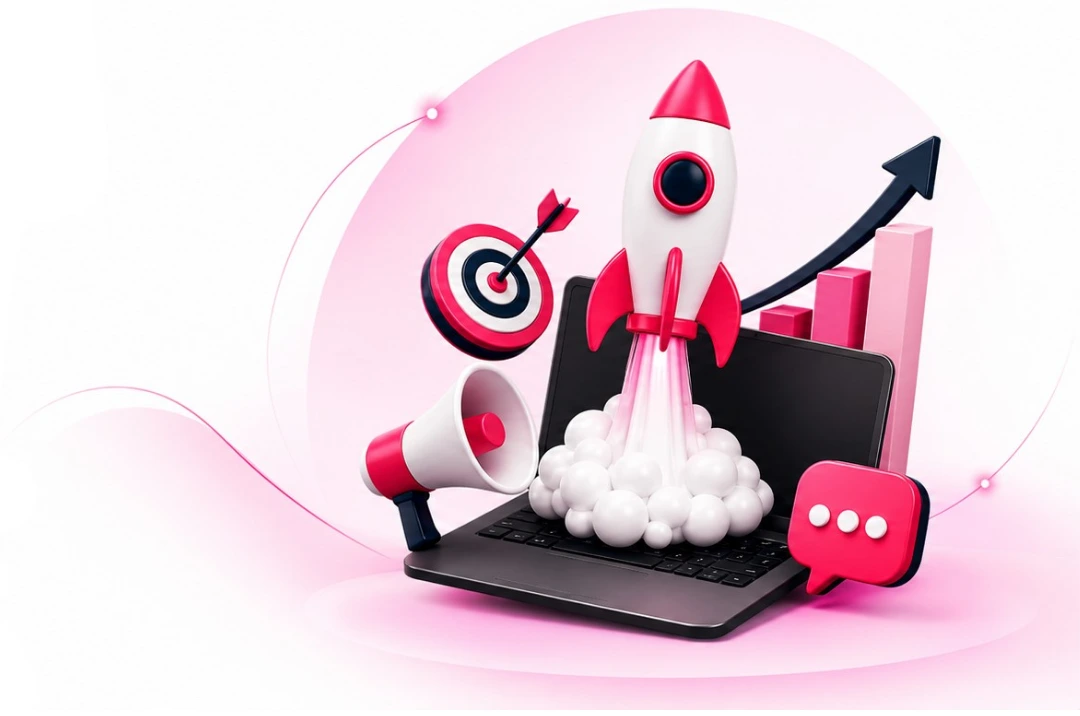
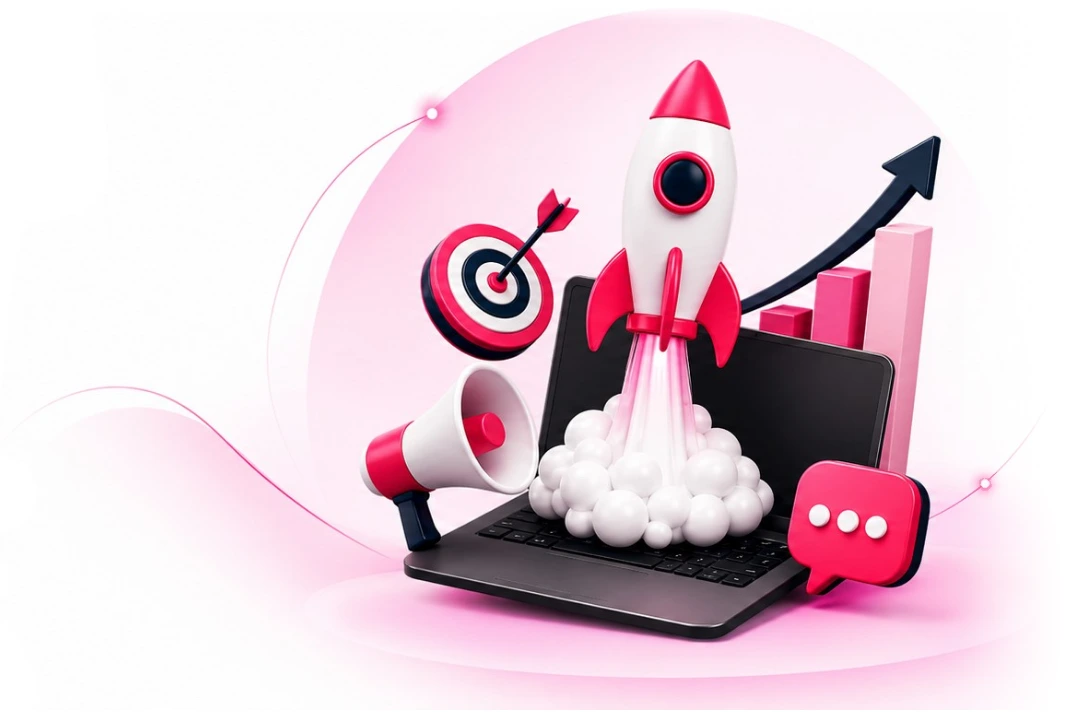
Hero: parrafo al ancho de Nosotros, titulo mas marcado y borde del icono difuminado

Changed region(s): [[0.9167, 0.7374, 1.0, 0.9218]]

diff --git a/styles.css b/styles.css
@@ -124,7 +124,8 @@ section[id]{scroll-margin-top:104px}
 /* ---------- HERO ---------- */
 .hero{padding:58px 0 32px}
 /* 48/52 entre texto e ilustración, con el texto centrado en vertical */
-.hero-grid{display:grid;grid-template-columns:48fr 52fr;gap:40px;align-items:center}
+/* La columna de texto mide lo mismo que la de Nosotros (602px a 1180 de contenedor) */
+.hero-grid{display:grid;grid-template-columns:602fr 490fr;gap:40px;align-items:center}
 .hero-copy{max-width:none}
 
 .hero-kicker,.section-kicker{
@@ -135,10 +136,14 @@ section[id]{scroll-margin-top:104px}
 .hero-title{
   margin-top:20px;font-family:var(--display);color:#0f1c2e;
   font-size:clamp(30px,4.1vw,54px);font-weight:700;letter-spacing:-.02em;line-height:1.07;
+  /* Mantiene el ancho que tenía, así los cortes de línea no cambian */
+  max-width:524px;
+  /* Space Grotesk llega hasta 700: el trazo engrosa un poco más sin cambiar el cuerpo */
+  -webkit-text-stroke:.4px currentColor;
 }
 /* La segunda frase arranca en su propio renglón, como en la referencia */
 .hero-title .accent{display:block}
-.hero-lead{margin-top:24px;font-size:16px;line-height:1.75;color:var(--graphite)}
+.hero-lead{margin-top:32px;font-size:16px;line-height:1.75;color:var(--graphite)}
 .hero-actions{margin-top:34px;display:flex;gap:14px;flex-wrap:wrap}
 .hero-actions .btn{min-height:52px;padding:14px 28px;font-size:14.5px}
 /* Resplandor rosa suave, más liviano que el del resto de la landing */
@@ -761,6 +766,8 @@ body.modal-open{overflow:hidden}
 /* ---------- RESPONSIVE ---------- */
 @media (max-width:1040px){
   .hero-grid{grid-template-columns:1fr;gap:44px;text-align:center;justify-items:center}
+  /* En una sola columna el título no necesita el tope de ancho */
+  .hero-title{max-width:none}
   .hero-copy{max-width:660px}
   .hero-lead{margin-inline:auto}
   .hero-actions{justify-content:center}

diff --git a/index.html b/index.html
@@ -26,7 +26,7 @@
 <link rel="preconnect" href="https://fonts.gstatic.com" crossorigin>
 <link rel="preload" as="image" href="assets/ekho-logo-oscuro.png">
 <link href="https://fonts.googleapis.com/css2?family=Space+Grotesk:wght@500;600;700&family=Inter:wght@400;500;600&display=swap" rel="stylesheet">
-<link rel="stylesheet" href="styles.css?v=64">
+<link rel="stylesheet" href="styles.css?v=66">
 </head>
 <body>
 <a class="skip-link" href="#main">Saltar al contenido</a>
